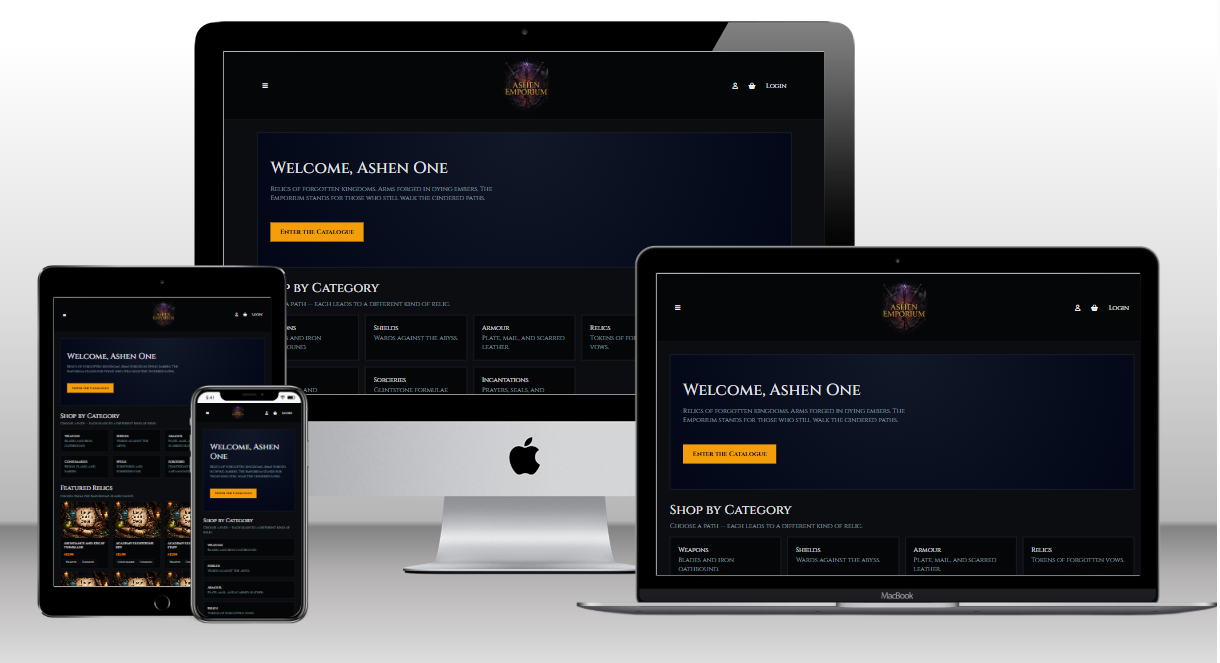
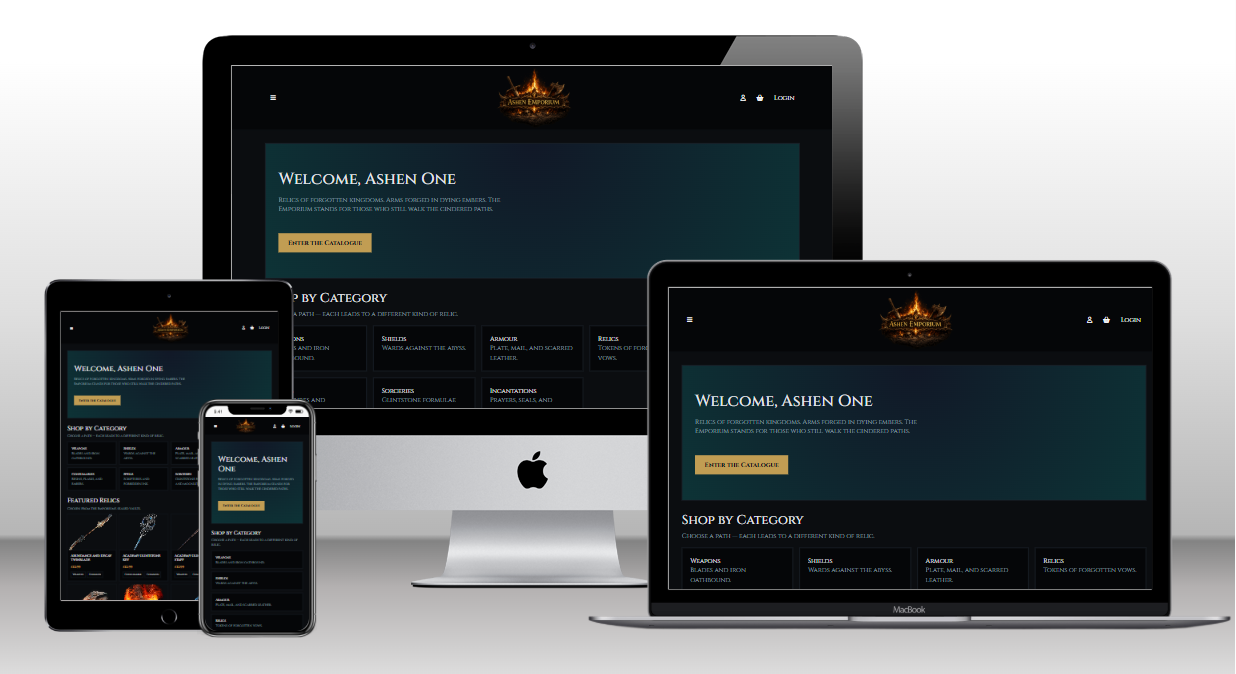
task : update project image mockups

Changed region(s): [[0.0, 0.0302, 1.0, 1.0], [0.4049, 0.0905, 0.4672, 0.181], [0.1246, 0.4525, 0.1557, 0.5128]]

diff --git a/src/data/projects.js b/src/data/projects.js
@@ -84,6 +84,52 @@ const rawProjects = [
     ],
   },
   {
+    id: "summitloguk",
+    title: "SummitLog UK",
+    category: "Full Stack",
+    suite: "Mountain Tracking Platform",
+    summary:
+      "A personal mountain tracking application for UK hillwalkers to log, visualise, and reflect on time spent in the mountains — covering Wainwrights, Munros, and Nuttalls with over 800 summits sourced from the DOBIH dataset.",
+    longDescription:
+      "SummitLog UK is a personal mountain tracking application built for UK hillwalkers who want to log, visualise and reflect on their time in the mountains. It grew from a simple idea to track Wainwright completions into a comprehensive platform covering multiple UK mountain collections — Wainwrights, Munros and Nuttalls — with over 800 summits sourced from the DOBIH (Database of British and Irish Hills) dataset. Built as a full-stack portfolio application, the focus throughout was production-quality design, real-world data and genuinely useful functionality, with a custom design system that aims for something that feels like a premium, polished product rather than a generic CRUD app.",
+    highlights: [
+      "Over 800 UK summits across Wainwrights, Munros and Nuttalls, sourced from the DOBIH dataset",
+      "Decoupled architecture: React + Vite frontend consuming a Django REST Framework API",
+      "Custom design system with animated SVG mountain cards",
+      "Personal best tracking, collection completion percentages and an achievement system",
+      "Interactive summit mapping powered by Leaflet",
+      "Session-based authentication with CSRF protection; images stored on Cloudflare R2",
+    ],
+    stack: [
+      "React",
+      "Vite",
+      "Django",
+      "Django REST Framework",
+      "Leaflet",
+      "Cloudflare R2",
+    ],
+    badges: [
+      { label: "React", Icon: FaReact },
+      { label: "Vite", Icon: SiVite },
+      { label: "Django", Icon: SiDjango },
+      { label: "Python", Icon: FaPython },
+      { label: "Leaflet", Icon: SiLeaflet },
+      { label: "Cloudflare R2", Icon: SiCloudflare },
+    ],
+    featured: true,
+    deploymentStatus: "private",
+    githubUrl: "https://github.com/TGOSS1984/summitlog-uk",
+    liveUrl: "",
+    imageLabel: "SummitLog UK",
+    image: `${import.meta.env.BASE_URL}assets/images/projects/summit-log-uk.PNG`,
+    galleryExtra: [
+      "Animated SVG mountain card design",
+      "Interactive Leaflet summit map",
+      "Achievement & completion tracking",
+      "Personal best & stats tracking",
+    ],
+  },
+  {
     id: "uk-mountain-tours-booking",
     title: "UK Mountain Tours Booking Website",
     category: "Full Stack",
@@ -374,52 +420,7 @@ const rawProjects = [
       "Object-oriented game state log",
     ],
   },
-  {
-    id: "summitloguk",
-    title: "SummitLog UK",
-    category: "Full Stack",
-    suite: "Mountain Tracking Platform",
-    summary:
-      "A personal mountain tracking application for UK hillwalkers to log, visualise, and reflect on time spent in the mountains — covering Wainwrights, Munros, and Nuttalls with over 800 summits sourced from the DOBIH dataset.",
-    longDescription:
-      "SummitLog UK is a personal mountain tracking application built for UK hillwalkers who want to log, visualise and reflect on their time in the mountains. It grew from a simple idea to track Wainwright completions into a comprehensive platform covering multiple UK mountain collections — Wainwrights, Munros and Nuttalls — with over 800 summits sourced from the DOBIH (Database of British and Irish Hills) dataset. Built as a full-stack portfolio application, the focus throughout was production-quality design, real-world data and genuinely useful functionality, with a custom design system that aims for something that feels like a premium, polished product rather than a generic CRUD app.",
-    highlights: [
-      "Over 800 UK summits across Wainwrights, Munros and Nuttalls, sourced from the DOBIH dataset",
-      "Decoupled architecture: React + Vite frontend consuming a Django REST Framework API",
-      "Custom design system with animated SVG mountain cards",
-      "Personal best tracking, collection completion percentages and an achievement system",
-      "Interactive summit mapping powered by Leaflet",
-      "Session-based authentication with CSRF protection; images stored on Cloudflare R2",
-    ],
-    stack: [
-      "React",
-      "Vite",
-      "Django",
-      "Django REST Framework",
-      "Leaflet",
-      "Cloudflare R2",
-    ],
-    badges: [
-      { label: "React", Icon: FaReact },
-      { label: "Vite", Icon: SiVite },
-      { label: "Django", Icon: SiDjango },
-      { label: "Python", Icon: FaPython },
-      { label: "Leaflet", Icon: SiLeaflet },
-      { label: "Cloudflare R2", Icon: SiCloudflare },
-    ],
-    featured: true,
-    deploymentStatus: "private",
-    githubUrl: "",
-    liveUrl: "",
-    imageLabel: "SummitLog UK",
-    image: "",
-    galleryExtra: [
-      "Animated SVG mountain card design",
-      "Interactive Leaflet summit map",
-      "Achievement & completion tracking",
-      "Personal best & stats tracking",
-    ],
-  },
+  
 ];
 
 const projects = rawProjects.map(({ galleryExtra, ...project }) => ({
